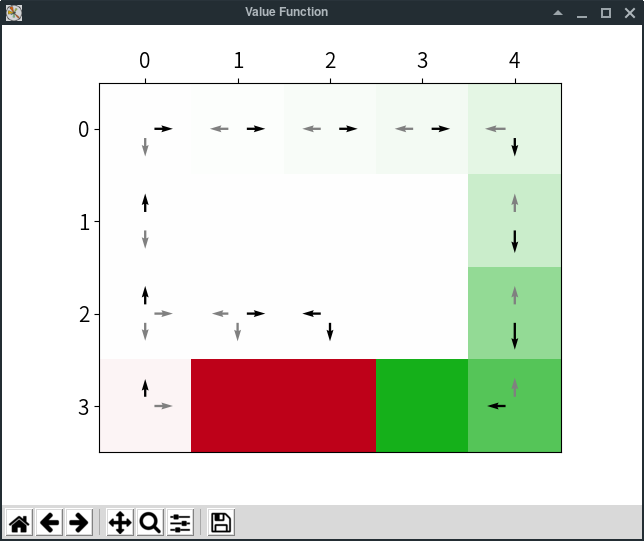
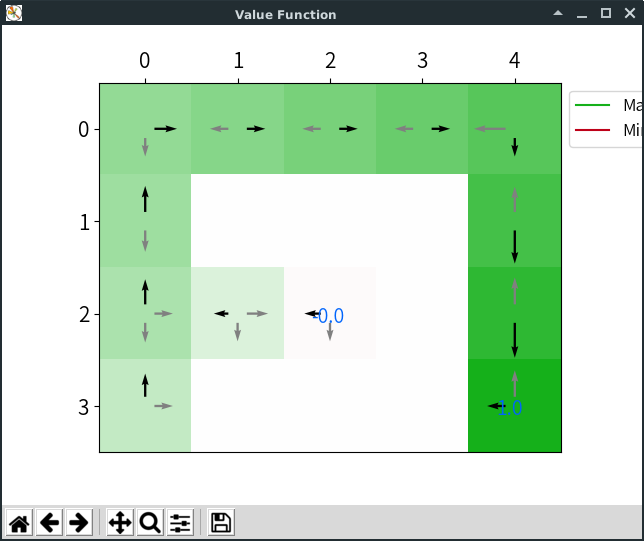
Update VF Picture

diff --git a/rlpy/domains/grid_world.py b/rlpy/domains/grid_world.py
@@ -203,6 +203,13 @@ class GridWorld(Domain):
             self._init_arrow(name, *np.meshgrid(x, y))
         self.vf_fig.show()
 
+    def _vf_text(self, c, r, v):
+        self.vf_texts.append(
+            self.vf_ax.text(
+                c - 0.2, r + 0.1, format(v, ".1f"), color="xkcd:bright blue"
+            )
+        )
+
     def show_learning(self, representation):
         if self.vf_ax is None:
             self._init_value_vis()
@@ -233,14 +240,13 @@ class GridWorld(Domain):
         vmin, vmax = v.min(), v.max()
         for r, c in itertools.product(range(self.rows), range(self.cols)):
             if v[r, c] == vmin:
-                self.vf_texts.append(
-                    self.vf_ax.text(c - 0.2, r + 0.1, format(vmin, ".1f"), color="w")
-                )
+                self._vf_text(c, r, vmin)
             elif v[r, c] == vmax:
-                self.vf_texts.append(
-                    self.vf_ax.text(c - 0.2, r + 0.1, format(vmax, ".1f"), color="w")
-                )
-            v[r, c] = linear_map(v[r, c], vmin, vmax, -1, 1)
+                self._vf_text(c, r, vmax)
+            if v[r, c] < 0:
+                v[r, c] = linear_map(v[r, c], min(vmin, self.MIN_RETURN), 0, -1, 0)
+            else:
+                v[r, c] = linear_map(v[r, c], 0, max(vmax, self.MAX_RETURN), 0, 1)
         # Show Value Function
         self.vf_img.set_data(v)
         # Show Policy for arrows
